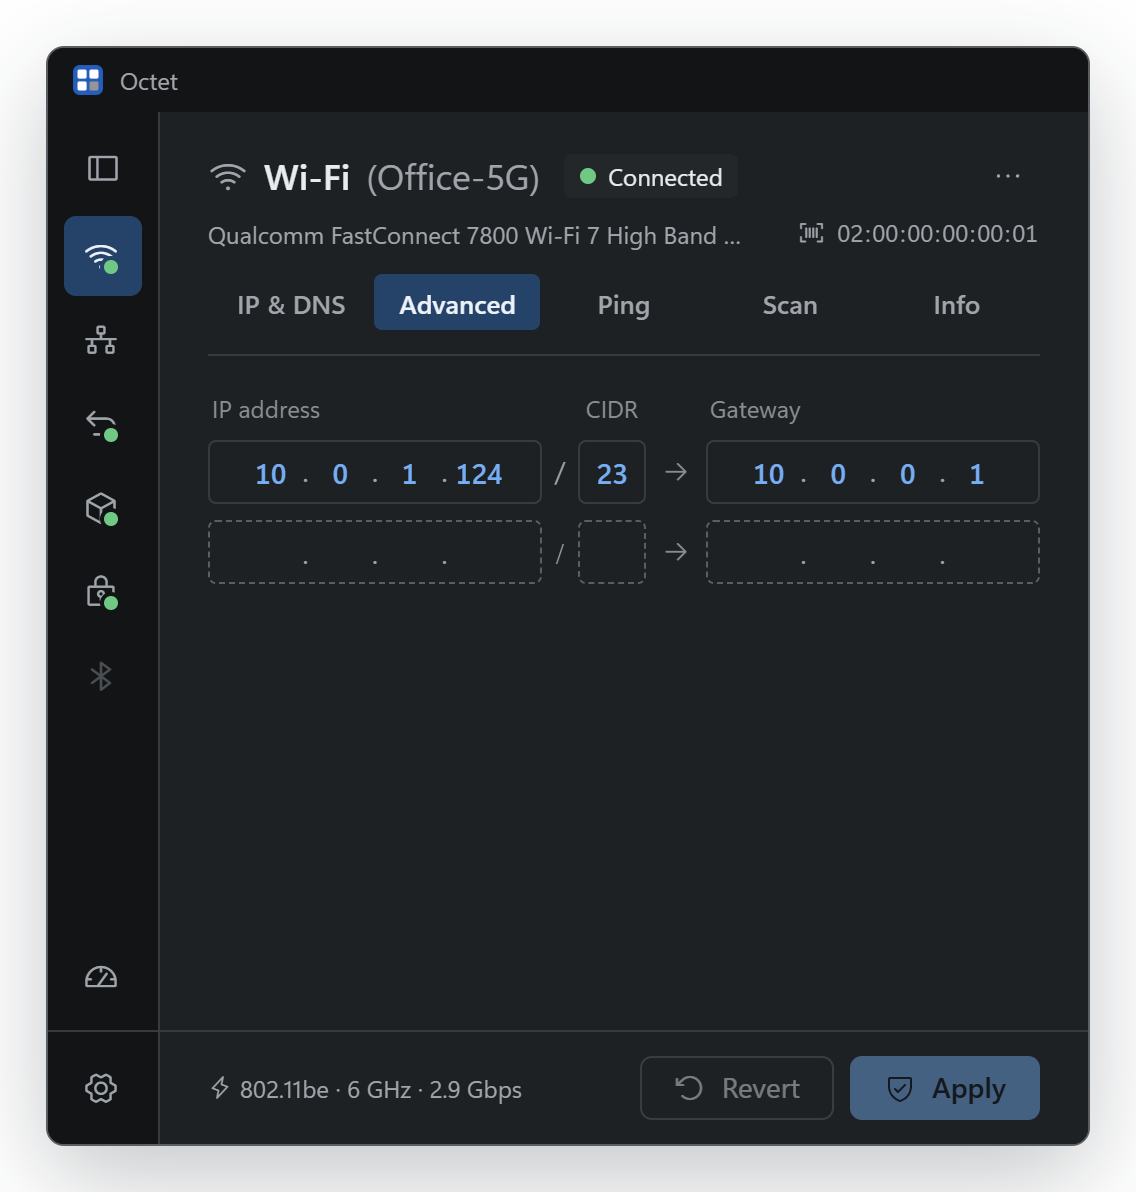
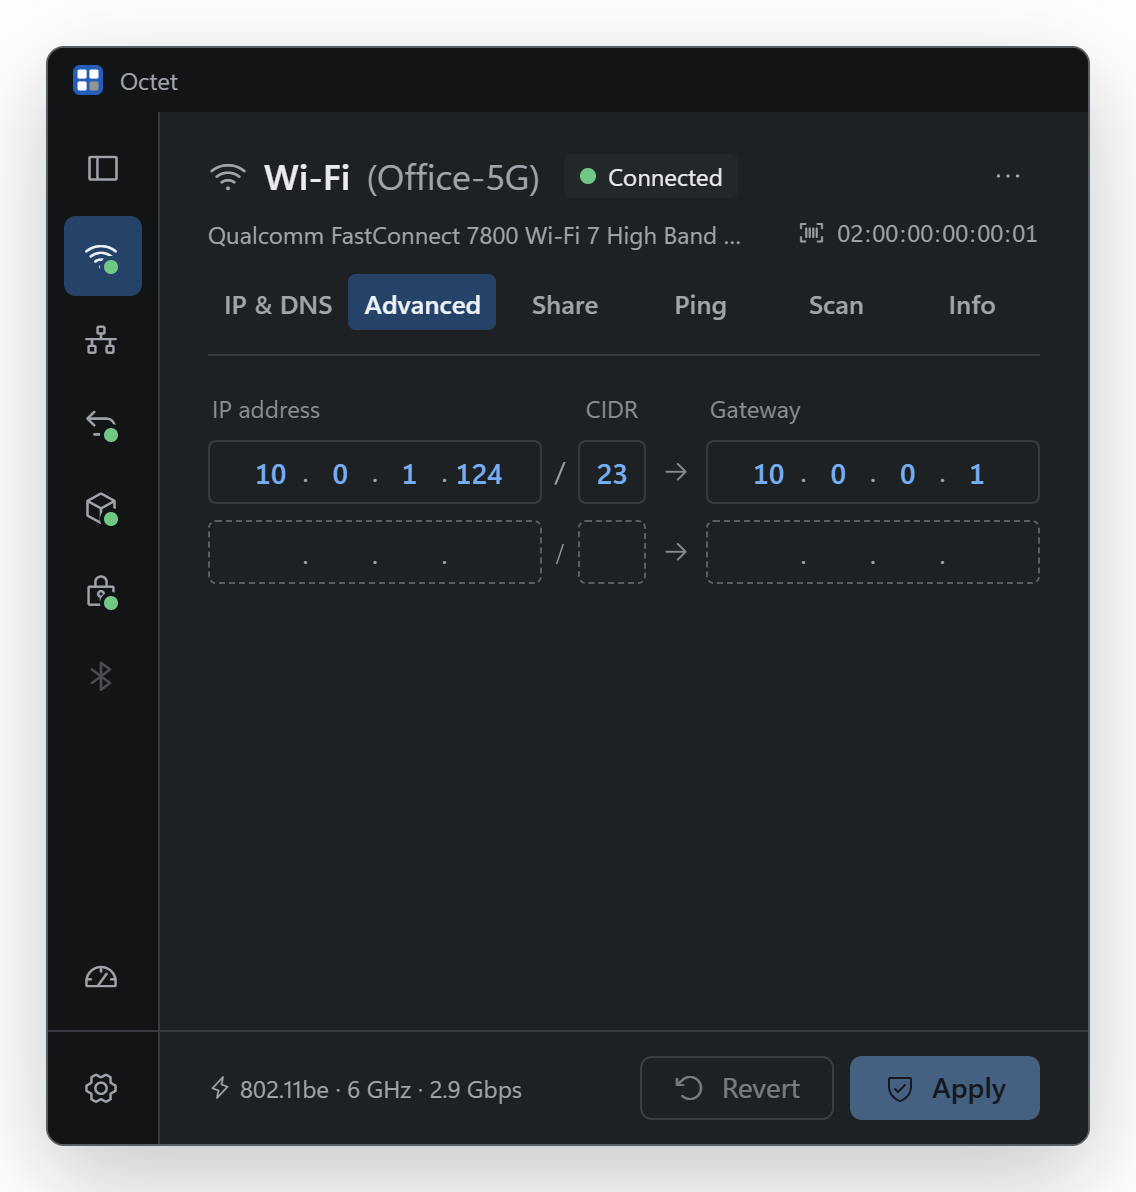
Release builds Windows and Mac side by side; Share in the README; tab shortcuts count visible tabs
- release.yml: a small draft job makes the release first (notes from the tag's message),
  so the Windows and Mac builds run at the same time instead of one after the other.
  The Mac tests build for Apple silicon, so bundle.sh reuses those compiled dependencies.
  actions/checkout v5 -> v7 (supersedes #6).
- README: a Share screenshot beside the speed test, every tab screenshot retaken with the
  Share tab, and Ctrl+1-6 / ⌘1-4.
- Ctrl/⌘+number, tab tooltips and the shortcut list count only the tabs shown, so on a Mac
  ⌘2 no longer opens the hidden Share page.
- Demo: a "Share, a router joined" scenario for the screenshot.

Changed region(s): [[0.1849, 0.2173, 0.647, 0.2794], [0.6778, 0.2483, 0.7702, 0.2794], [0.8319, 0.2483, 0.8627, 0.2794]]

diff --git a/ui/index.html b/ui/index.html
@@ -1050,12 +1050,12 @@ html.app, html.app body { overflow: hidden; }
 
         <div class="ptabs" id="ptabs" role="tablist" aria-label="Adapter pages">
           <span id="ptab-pill" aria-hidden="true"></span>
-          <button class="ptab" role="tab" data-page="ip" aria-selected="true" aria-controls="page-ip" title="Ctrl+1"><span data-t="tabIp">IP &amp; DNS</span><span class="diff" aria-hidden="true"></span></button>
-          <button class="ptab" role="tab" data-page="adv" aria-selected="false" aria-controls="page-adv" tabindex="-1" title="Ctrl+2"><span data-t="tabAdv">Advanced</span></button>
+          <button class="ptab" role="tab" data-page="ip" aria-selected="true" aria-controls="page-ip"><span data-t="tabIp">IP &amp; DNS</span><span class="diff" aria-hidden="true"></span></button>
+          <button class="ptab" role="tab" data-page="adv" aria-selected="false" aria-controls="page-adv" tabindex="-1"><span data-t="tabAdv">Advanced</span></button>
           <button class="ptab" role="tab" data-page="share" data-win aria-selected="false" aria-controls="page-share" tabindex="-1"><span data-t="tabShare">Share</span></button>
-          <button class="ptab" role="tab" data-page="probe" aria-selected="false" aria-controls="page-probe" tabindex="-1" title="Ctrl+3"><span data-t="tabProbe">Ping</span></button>
-          <button class="ptab" role="tab" data-page="scan" aria-selected="false" aria-controls="page-scan" tabindex="-1" title="Ctrl+4"><span data-t="tabScan">Scan</span></button>
-          <button class="ptab" role="tab" data-page="info" aria-selected="false" aria-controls="page-info" tabindex="-1" title="Ctrl+5"><span data-t="tabInfo">Info</span></button>
+          <button class="ptab" role="tab" data-page="probe" aria-selected="false" aria-controls="page-probe" tabindex="-1"><span data-t="tabProbe">Ping</span></button>
+          <button class="ptab" role="tab" data-page="scan" aria-selected="false" aria-controls="page-scan" tabindex="-1"><span data-t="tabScan">Scan</span></button>
+          <button class="ptab" role="tab" data-page="info" aria-selected="false" aria-controls="page-info" tabindex="-1"><span data-t="tabInfo">Info</span></button>
         </div>
 
         <hr class="break">
@@ -1258,7 +1258,7 @@ html.app, html.app body { overflow: hidden; }
                 <h4><i class="ph ph-app-window" aria-hidden="true"></i><span data-t="kgAll">Anywhere</span></h4>
                 <kbd>Ctrl</kbd><kbd>Enter</kbd><span data-t="kApply">Apply changes</span>
                 <kbd>F5</kbd><span></span><span data-t="kRefresh">Read adapters again</span>
-                <kbd>Ctrl</kbd><kbd>1-5</kbd><span data-t="kPages">Go to a page</span>
+                <kbd>Ctrl</kbd><kbd id="k-pages">1-5</kbd><span data-t="kPages">Go to a page</span>
                 <kbd>Ctrl</kbd><kbd>T</kbd><span data-t="kSpeed">Open or close the speed test</span>
                 <kbd>Ctrl</kbd><kbd>B</kbd><span data-t="kSide">Expand or collapse the sidebar</span>
                 <kbd>Esc</kbd><span></span><span data-t="kEsc">Close a menu or the sidebar</span>
@@ -1348,11 +1348,9 @@ const isMod = e => mac ? e.metaKey : e.ctrlKey;
 if (mac) {
   document.documentElement.classList.add("mac");
   document.querySelector(".ptab[data-page=adv]").remove();
-  document.querySelectorAll(".ptab").forEach((b, i) => b.title = `⌘${i + 1}`);
   for (const el of document.querySelectorAll("[data-win]")) { el.hidden = true; el.disabled = true; }
   for (const k of document.querySelectorAll(".keys kbd")) {
     if (k.textContent === "Ctrl") k.textContent = "⌘";
-    else if (k.textContent === "1-5") k.textContent = "1-4";
     else if (k.textContent === "F5") { k.textContent = "⌘"; k.nextElementSibling.replaceWith(Object.assign(document.createElement("kbd"), { textContent: "R" })); }
   }
   for (const el of document.querySelectorAll("[title*='Ctrl+'], [title*='(F5)']")) el.title = el.title.replace("Ctrl+", "⌘").replace("F5", "⌘R");
@@ -2978,7 +2976,8 @@ document.addEventListener("keydown", e => {
 // ---------- adapter pages ----------
 // The pill slides to the new tab; the old page steps aside (away from where you're going) while the
 // new one comes in from that side. A new click cancels what's running and goes straight to the end.
-const ptabs = [...document.querySelectorAll("#ptabs [role=tab]")];
+const ptabs = [...document.querySelectorAll("#ptabs [role=tab]:not([hidden])")];   // macOS hides Share: Ctrl/⌘+N counts only the tabs it shows
+$("k-pages").textContent = "1-" + ptabs.length; ptabs.forEach((b, i) => b.title = (mac ? "⌘" : "Ctrl+") + (i + 1));
 const editable = p => p === "ip" || p === "adv";   // the pages that share the draft and its Revert/Apply
 let page = "ip", pageMotion = [], footMotion = [];
 // Same move as the sidebar indicator: stretch over both tabs, then contract onto the new one.
@@ -4523,6 +4522,7 @@ const scenarios = {
     pgproxy: ["Scan, router answers for every address (proxy ARP)", () => { demo.proxyArp = true; showPage("scan"); }],
     pgscan2: ["Scan, with a second IP", () => { Object.assign(adapters[sel], { extraIps: ["192.168.1.50"], extraSubnets: ["255.255.255.0"] }); showPage("scan"); }],
     pginfo: ["Info", () => showPage("info")],
+    pgshare: ["Share, a router joined", async () => { adapters[1].state = "up"; await go(1); showPage("share"); setTimeout(() => $("share-go").click(), 600); }],
   },
   "Settings": {
     general: ["General", () => openSettings()],

diff --git a/README.md b/README.md
@@ -48,8 +48,13 @@ A fast, modern take on [Simple IP Config](https://github.com/KurtisLiggett/Simpl
 </td>
 </tr>
 <tr>
-<td colspan="2" align="center">
-<img src="assets/speed.png" width="440" alt="Speed test: the needle at 85 Mbps mid-download, with latency bars either side"><br>
+<td width="50%" valign="top" align="center">
+<img src="assets/share.png" alt="Share tab: Wi-Fi shared to Ethernet, with a MikroTik RB5009 that joined"><br>
+<b>Share</b> <sub>(Windows)</sub><br>
+<sub>Give a router or another PC this laptop's internet</sub><br><br>
+</td>
+<td width="50%" valign="top" align="center">
+<img src="assets/speed.png" alt="Speed test: the needle at 85 Mbps mid-download, with latency bars either side"><br>
 <b>Speed test</b><br>
 <sub>Download, upload and latency under load, out this adapter</sub><br><br>
 </td>
@@ -59,7 +64,7 @@ A fast, modern take on [Simple IP Config](https://github.com/KurtisLiggett/Simpl
 - Follows the system: cable, Wi-Fi and address changes show up on their own.
 - Renew (and release, on Windows), flush DNS, enable / disable adapters, DNS presets, and a speed test.
 - Copy or paste a whole setup as one line: `192.168.1.50/24 gw 192.168.1.1 dns 1.1.1.1, 8.8.8.8`
-- Ctrl+1 to Ctrl+5 (⌘ on a Mac) switch tabs. English and ไทย.
+- Ctrl+1 to Ctrl+6 switch tabs (⌘1 to ⌘4 on a Mac, which has no Advanced or Share). English and ไทย.
 
 ## Good to know
 
